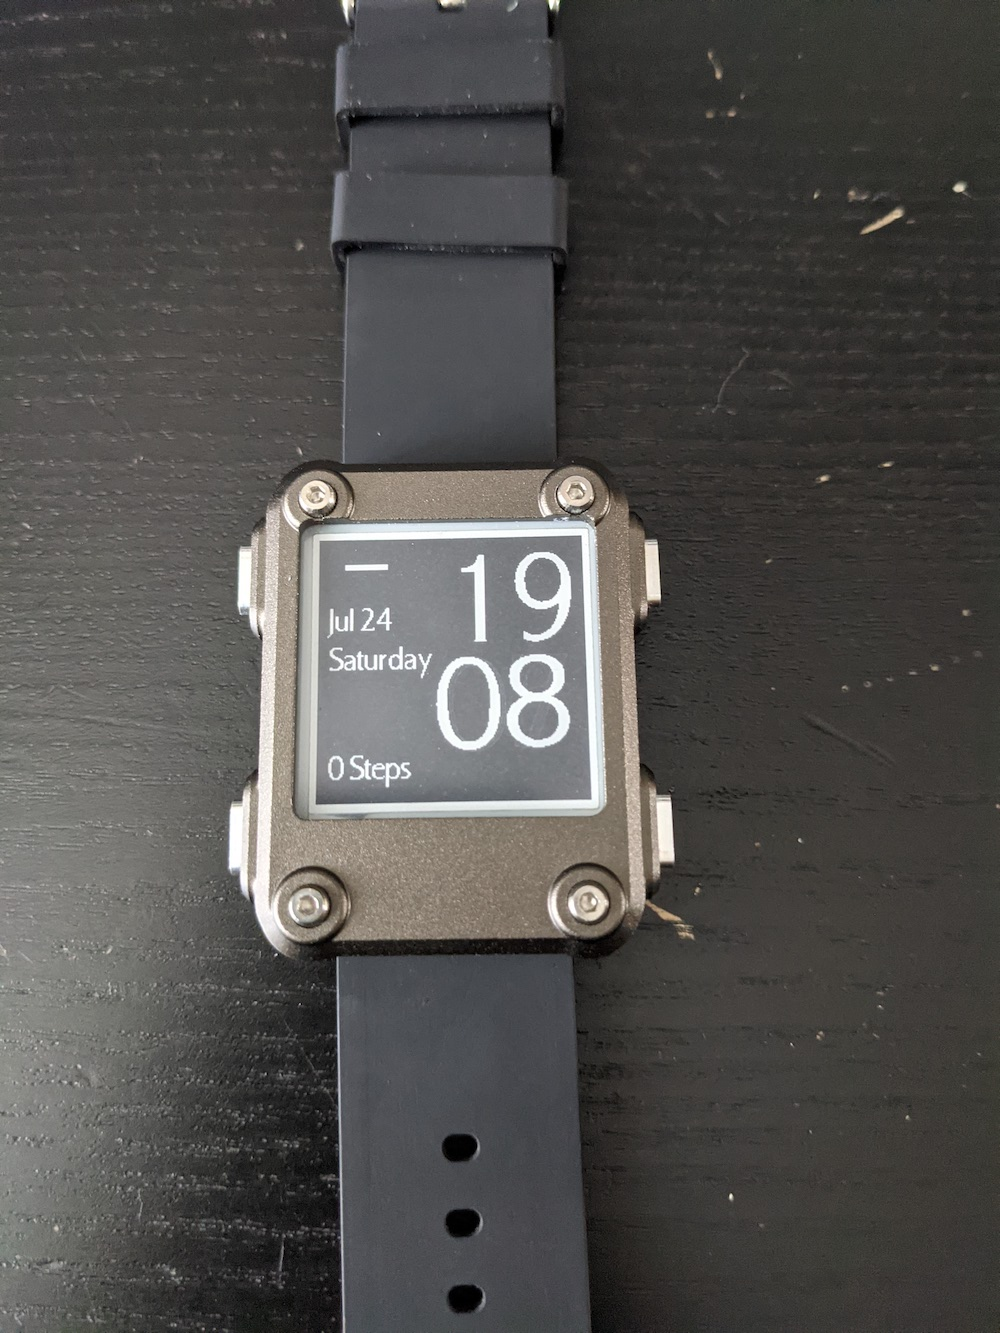
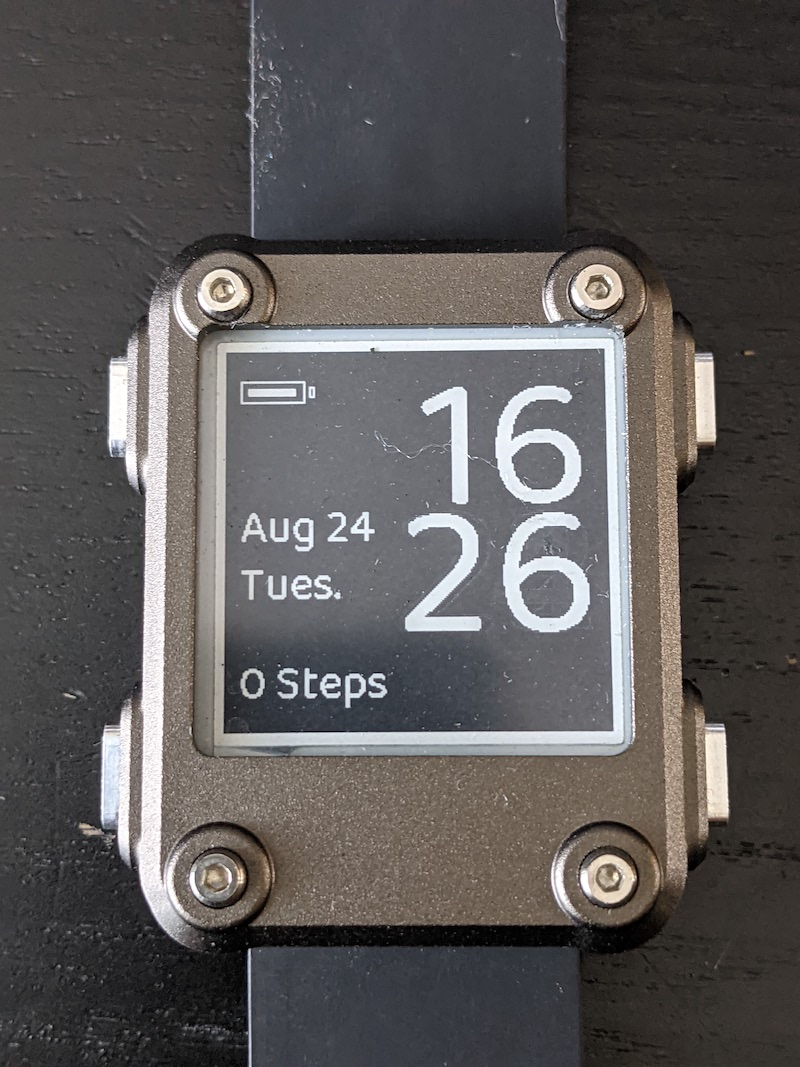
fixed day of week bleed

diff --git a/src/TimeLib.h b/src/TimeLib.h
@@ -1,0 +1,144 @@
+/*
+  time.h - low level time and date functions
+*/
+
+/*
+  July 3 2011 - fixed elapsedSecsThisWeek macro (thanks Vincent Valdy for this)
+              - fixed  daysToTime_t macro (thanks maniacbug)
+*/     
+
+#ifndef _Time_h
+#ifdef __cplusplus
+#define _Time_h
+
+#include <inttypes.h>
+#ifndef __AVR__
+#include <sys/types.h> // for __time_t_defined, but avr libc lacks sys/types.h
+#endif
+
+
+#if !defined(__time_t_defined) // avoid conflict with newlib or other posix libc
+typedef unsigned long time_t;
+#endif
+
+
+// This ugly hack allows us to define C++ overloaded functions, when included
+// from within an extern "C", as newlib's sys/stat.h does.  Actually it is
+// intended to include "time.h" from the C library (on ARM, but AVR does not
+// have that file at all).  On Mac and Windows, the compiler will find this
+// "Time.h" instead of the C library "time.h", so we may cause other weird
+// and unpredictable effects by conflicting with the C library header "time.h",
+// but at least this hack lets us define C++ functions as intended.  Hopefully
+// nothing too terrible will result from overriding the C library header?!
+extern "C++" {
+typedef enum {timeNotSet, timeNeedsSync, timeSet
+}  timeStatus_t ;
+
+typedef enum {
+    dowInvalid, dowSun, dowMon, dowTues, dowWed, dowThurs, dowFri, dowSat
+} timeDayOfWeek_t;
+
+typedef enum {
+    tmSecond, tmMinute, tmHour, tmWday, tmDay,tmMonth, tmYear, tmNbrFields
+} tmByteFields;	   
+
+typedef struct  { 
+  uint8_t Second; 
+  uint8_t Minute; 
+  uint8_t Hour; 
+  uint8_t Wday;   // day of week, sunday is day 1
+  uint8_t Day;
+  uint8_t Month; 
+  uint8_t Year;   // offset from 1970; 
+} 	tmElements_t, TimeElements, *tmElementsPtr_t;
+
+//convenience macros to convert to and from tm years 
+#define  tmYearToCalendar(Y) ((Y) + 1970)  // full four digit year 
+#define  CalendarYrToTm(Y)   ((Y) - 1970)
+#define  tmYearToY2k(Y)      ((Y) - 30)    // offset is from 2000
+#define  y2kYearToTm(Y)      ((Y) + 30)   
+
+typedef time_t(*getExternalTime)();
+//typedef void  (*setExternalTime)(const time_t); // not used in this version
+
+
+/*==============================================================================*/
+/* Useful Constants */
+#define SECS_PER_MIN  ((time_t)(60UL))
+#define SECS_PER_HOUR ((time_t)(3600UL))
+#define SECS_PER_DAY  ((time_t)(SECS_PER_HOUR * 24UL))
+#define DAYS_PER_WEEK ((time_t)(7UL))
+#define SECS_PER_WEEK ((time_t)(SECS_PER_DAY * DAYS_PER_WEEK))
+#define SECS_PER_YEAR ((time_t)(SECS_PER_DAY * 365UL)) // TODO: ought to handle leap years
+#define SECS_YR_2000  ((time_t)(946684800UL)) // the time at the start of y2k
+ 
+/* Useful Macros for getting elapsed time */
+#define numberOfSeconds(_time_) ((_time_) % SECS_PER_MIN)  
+#define numberOfMinutes(_time_) (((_time_) / SECS_PER_MIN) % SECS_PER_MIN) 
+#define numberOfHours(_time_) (((_time_) % SECS_PER_DAY) / SECS_PER_HOUR)
+#define dayOfWeek(_time_) ((((_time_) / SECS_PER_DAY + 4)  % DAYS_PER_WEEK)+1) // 1 = Sunday
+#define elapsedDays(_time_) ((_time_) / SECS_PER_DAY)  // this is number of days since Jan 1 1970
+#define elapsedSecsToday(_time_) ((_time_) % SECS_PER_DAY)   // the number of seconds since last midnight 
+// The following macros are used in calculating alarms and assume the clock is set to a date later than Jan 1 1971
+// Always set the correct time before setting alarms
+#define previousMidnight(_time_) (((_time_) / SECS_PER_DAY) * SECS_PER_DAY)  // time at the start of the given day
+#define nextMidnight(_time_) (previousMidnight(_time_)  + SECS_PER_DAY)   // time at the end of the given day 
+#define elapsedSecsThisWeek(_time_) (elapsedSecsToday(_time_) +  ((dayOfWeek(_time_)-1) * SECS_PER_DAY))   // note that week starts on day 1
+#define previousSunday(_time_) ((_time_) - elapsedSecsThisWeek(_time_))      // time at the start of the week for the given time
+#define nextSunday(_time_) (previousSunday(_time_)+SECS_PER_WEEK)          // time at the end of the week for the given time
+
+
+/* Useful Macros for converting elapsed time to a time_t */
+#define minutesToTime_t ((M)) ( (M) * SECS_PER_MIN)  
+#define hoursToTime_t   ((H)) ( (H) * SECS_PER_HOUR)  
+#define daysToTime_t    ((D)) ( (D) * SECS_PER_DAY) // fixed on Jul 22 2011
+#define weeksToTime_t   ((W)) ( (W) * SECS_PER_WEEK)   
+
+/*============================================================================*/
+/*  time and date functions   */
+int     hour();            // the hour now 
+int     hour(time_t t);    // the hour for the given time
+int     hourFormat12();    // the hour now in 12 hour format
+int     hourFormat12(time_t t); // the hour for the given time in 12 hour format
+uint8_t isAM();            // returns true if time now is AM
+uint8_t isAM(time_t t);    // returns true the given time is AM
+uint8_t isPM();            // returns true if time now is PM
+uint8_t isPM(time_t t);    // returns true the given time is PM
+int     minute();          // the minute now 
+int     minute(time_t t);  // the minute for the given time
+int     second();          // the second now 
+int     second(time_t t);  // the second for the given time
+int     day();             // the day now 
+int     day(time_t t);     // the day for the given time
+int     weekday();         // the weekday now (Sunday is day 1) 
+int     weekday(time_t t); // the weekday for the given time 
+int     month();           // the month now  (Jan is month 1)
+int     month(time_t t);   // the month for the given time
+int     year();            // the full four digit year: (2009, 2010 etc) 
+int     year(time_t t);    // the year for the given time
+
+time_t now();              // return the current time as seconds since Jan 1 1970 
+void    setTime(time_t t);
+void    setTime(int hr,int min,int sec,int day, int month, int yr);
+void    adjustTime(long adjustment);
+
+/* date strings */ 
+#define dt_MAX_STRING_LEN 9 // length of longest date string (excluding terminating null)
+char* monthStr(uint8_t month);
+char* dayStr(uint8_t day);
+char* monthShortStr(uint8_t month);
+char* dayShortStr(uint8_t day);
+	
+/* time sync functions	*/
+timeStatus_t timeStatus(); // indicates if time has been set and recently synchronized
+void    setSyncProvider( getExternalTime getTimeFunction); // identify the external time provider
+void    setSyncInterval(time_t interval); // set the number of seconds between re-sync
+
+/* low level functions to convert to and from system time                     */
+void breakTime(time_t time, tmElements_t &tm);  // break time_t into elements
+time_t makeTime(const tmElements_t &tm);  // convert time elements into time_t
+
+} // extern "C++"
+#endif // __cplusplus
+#endif /* _Time_h */
+

diff --git a/README.md b/README.md
@@ -1,12 +1,19 @@
 # Marina
 
-
+The [Watchy](https://watchy.sqfmi.com/), by SQFMI, is a fully open source E-Paper watch and it's pretty cool. Having got one, I wanted to learn how to make my own watch face and this is my ongoing attempt. 
 
 ![marina](img/marina.jpg)
 
-My first attempt at a watch face for the https://watchy.sqfmi.com/
 
-Todo: 
 
-- make the battery look better, it really looks like shit
-- balance the display out better
+## Changelog
+
+In version 1.0, the days of the week were too large for the display and ended up bleeding into the hour and minutes, which was a mess. This was fixed by editing TimeLib.h to show them in a shorter manner, so Tuesday becomes Tues.
+
+I've included this edited version, if you wish to use it, you need to ensure it is placed within the the following directory when building this
+
+`/.pio/libdeps/esp32dev/Time`
+
+## Battery Life
+
+With the tuning I've done of the code, you should see around 6 days battery reserve. This will vary depending on how active you are but I'm actively testing this so should have solid data soon. 
